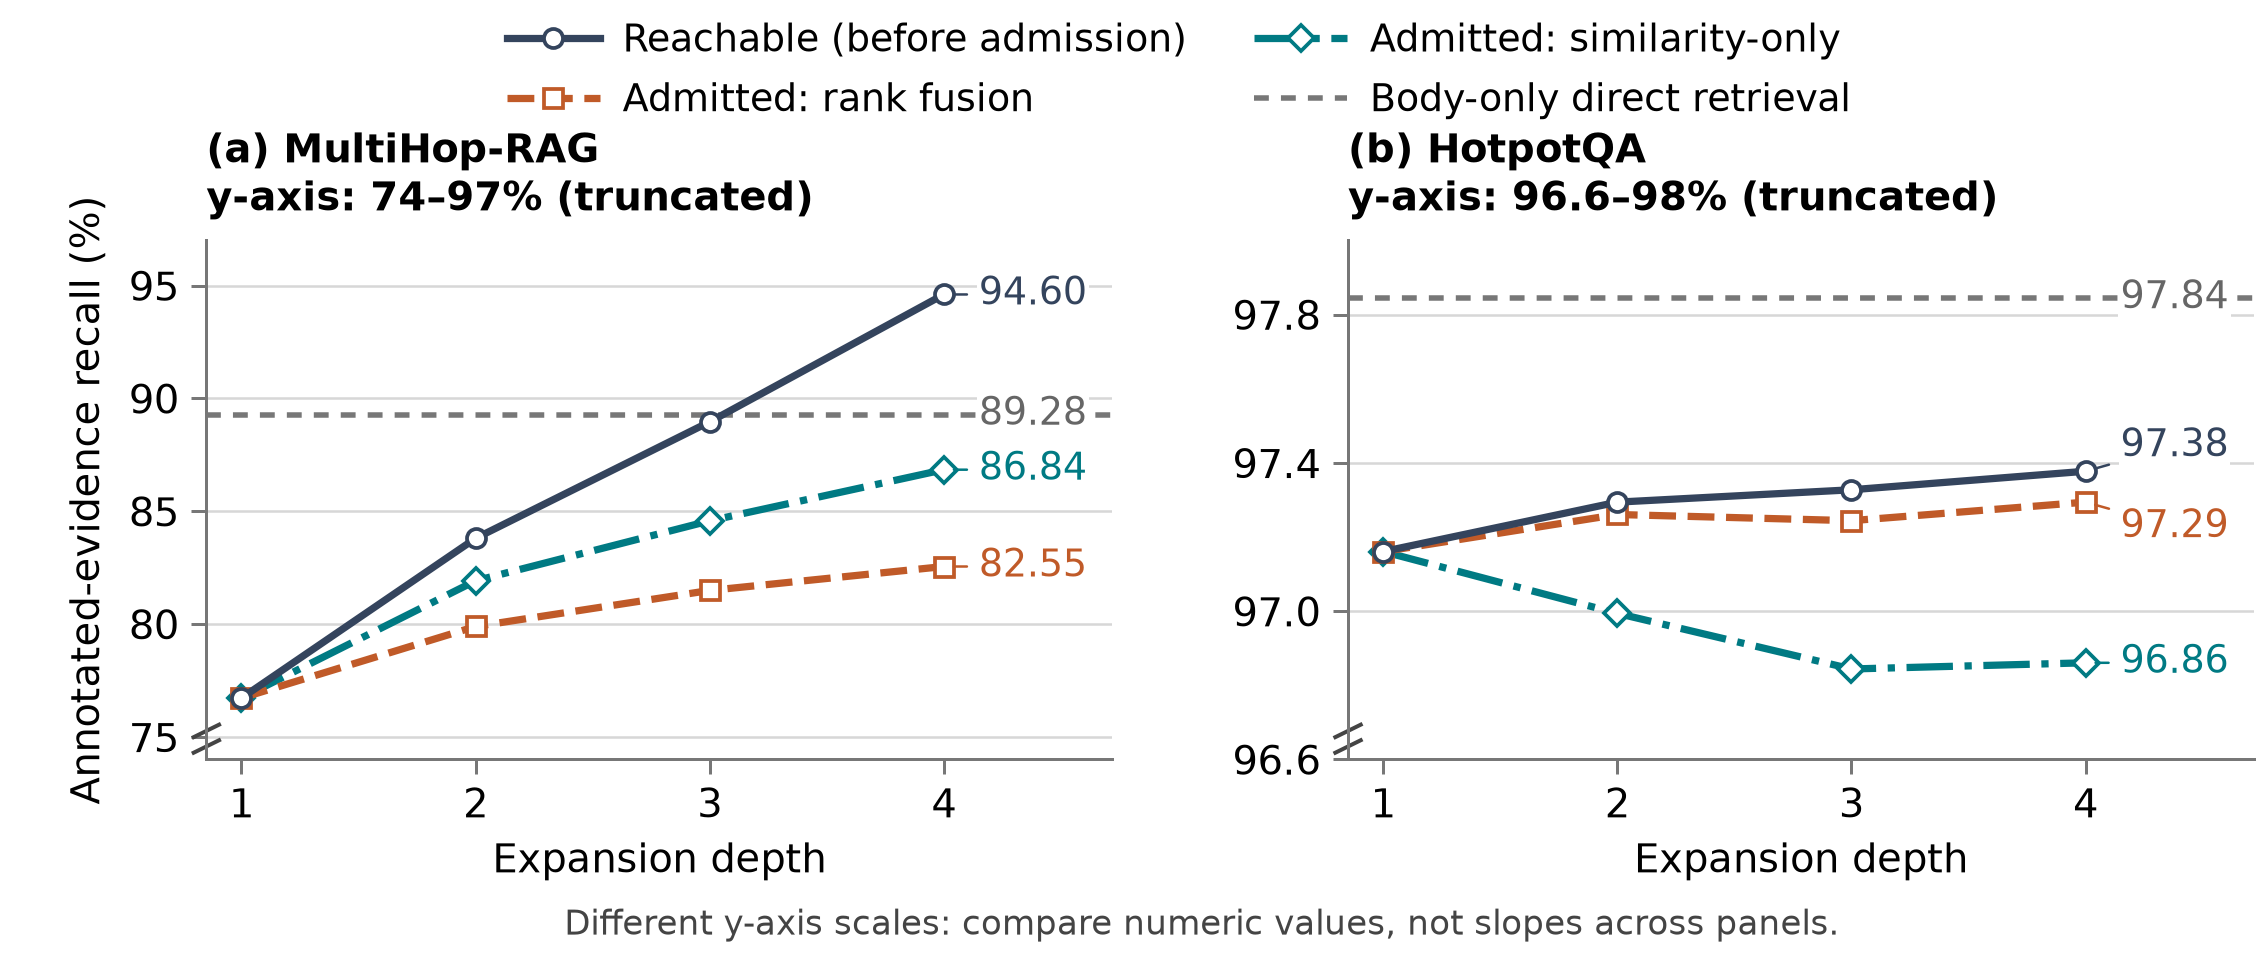
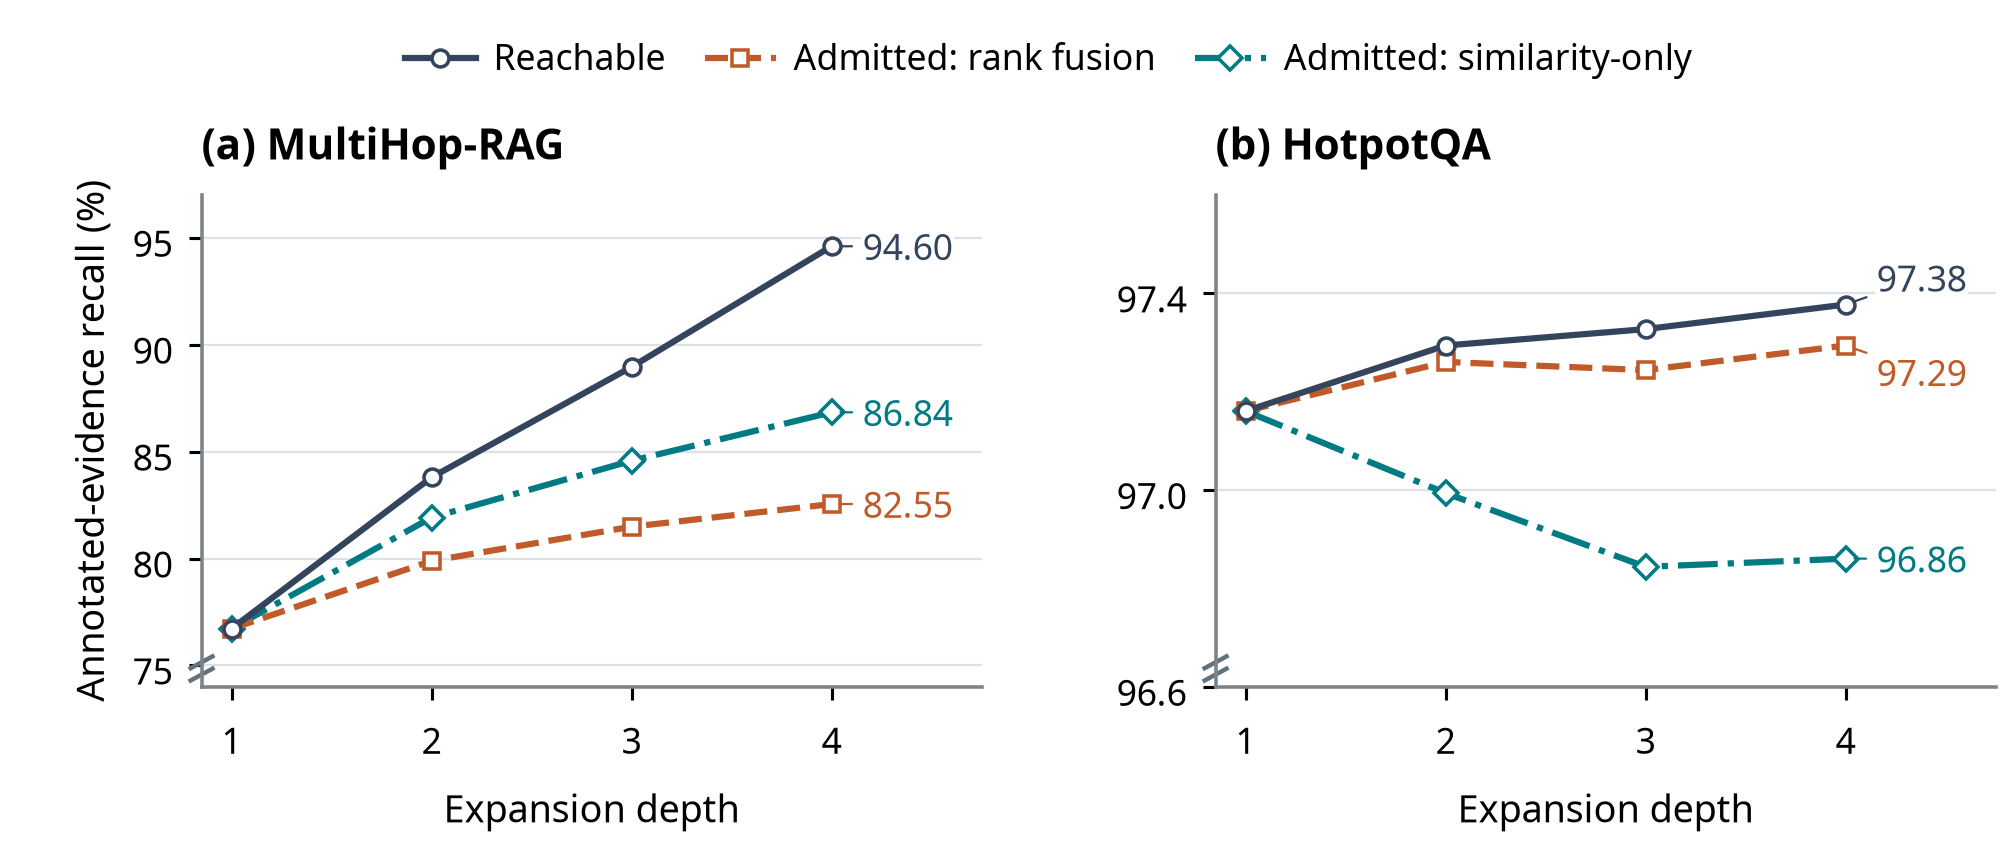
Refresh README overview and figures to match current manuscript

Changed region(s): [[0.0923, 0.0307, 1.0, 0.9811], [0.0308, 0.2146, 0.4923, 0.8892]]

diff --git a/README.md b/README.md
@@ -2,18 +2,20 @@
 
 [![License: MIT](https://img.shields.io/badge/License-MIT-yellow.svg)](LICENSE)
 
-Prehop is a graph-based retriever for multi-hop retrieval-augmented generation
-(RAG). During indexing it generates questions for every passage and stores
-links between passages; at query time it retrieves initial passages, expands
-the stored links once, reranks the combined pool with an LLM and generates an
-answer from the returned passages. This repository provides the implementation and experiment code for
+This repository provides the implementation and experiment code for
 **Reached but Not Retained: Candidate Admission under Reranker Token Budgets in Graph-Based Multi-Hop RAG**.
-The paper separates evidence reached by graph expansion from evidence retained
-under an LLM reranker input ceiling, using Prehop as a controlled test bed.
-The manuscript reports retrieval evaluation only: reachable, admitted and returned
-recall, complete coverage, and benchmark-specific retrieval MAP. Answer generation
-remains available in the implementation, but QA, Answer EM/F1, answer-generation
-experiments and cross-system answer comparisons are outside the manuscript.
+
+The paper studies where graph-retrieved evidence is lost between three stages:
+**reachable → admitted → returned**. Prehop, a static question-link passage graph
+with one LLM reranking call, is the controlled test bed. On MultiHop-RAG,
+four-step expansion reaches **94.60%** annotated recall, but rank-fusion admission
+retains **82.55%** under the original one-step reranker input budget. An
+annotation-aware construction verifies that all reachable annotations can fit
+within that budget on every evidence-bearing question.
+
+The evaluation reports retrieval recall, complete coverage and benchmark-specific
+MAP. The implementation also supports answer generation; answer-quality
+experiments are outside the paper's scope.
 
 This checkout runs Prehop and the dense baseline (`naive`). Archived results for
 other systems can be evaluated from their saved outputs; their implementations
@@ -28,7 +30,7 @@ and installation scripts are not included.
 
 ## How Prehop works
 
-![Prehop architecture: offline indexing with generated questions and stored links, then one-step expansion, LLM reranking and answer generation](docs/figures/prehop_architecture.png)
+![Prehop architecture and admission diagnosis: indexing, reachable neighborhoods, token-limited admission and returned passages, with an actual HotpotQA cutoff case](docs/figures/prehop_architecture.png)
 
 Each passage receives two question sets from an LLM. **Q−** questions are
 answerable from the passage itself; **Q+** questions ask for information that
@@ -43,7 +45,10 @@ At query time the original question searches the body, Q− and Q+ indexes; the
 fused hits form the initial passages (**I** in the diagram). Prehop follows outgoing HOP links and
 both NEXT directions once from every initial passage, keeps the initial
 candidates in the pool, orders the pool by a fused score and passes it to one
-LLM reranking request that returns up to 12 passages for answer generation.
+LLM reranking request that returns up to 12 passages. The paper traces evidence
+through these returned passages. Its depth experiment expands the saved graph
+up to four steps and admits whole-passage prefixes under the same per-query
+one-step token budget; the standard runtime still expands once.
 Stored links propose evidence; the query decides its relevance only through
 scoring and reranking. The [method guide](docs/METHOD.md) gives the exact
 fusion, scoring and reranking rules.
@@ -164,6 +169,14 @@ HotpotQA intervals cluster the 944 original questions.
 | Four-step reachable versus rank-fusion admitted recall | 94.60% versus 82.55% annotated recall | Reachable evidence versus evidence admitted under the original input ceiling |
 | Four-step similarity-only admission versus rank fusion | +4.29 pp admitted recall; +3.02 pp returned recall | Same neighborhood, initial passages and input ceiling; membership and presentation order change together |
 | Annotation-aware capacity-feasibility diagnostic | All four-step reachable annotations fit on every evidence-bearing question | Same neighborhood, mandatory initial passages and original token ceiling; no reranking |
+
+The central four-step result (paper Table 3) traces the same reachable
+neighborhood through both admission policies and their own-order reranking:
+
+| Dataset | Reachable recall | Fusion admitted | Fusion returned | Similarity-only admitted | Similarity-only returned |
+| --- | --- | --- | --- | --- | --- |
+| MultiHop-RAG | 94.60% | 82.55% | 76.58% | 86.84% | 79.60% |
+| HotpotQA | 97.38% | 97.29% | 97.24% | 96.86% | 96.86% |
 
 The annotation-aware construction is a capacity-feasibility certificate: it attains
 full-neighborhood annotation coverage, an upper bound for any subset, within the
